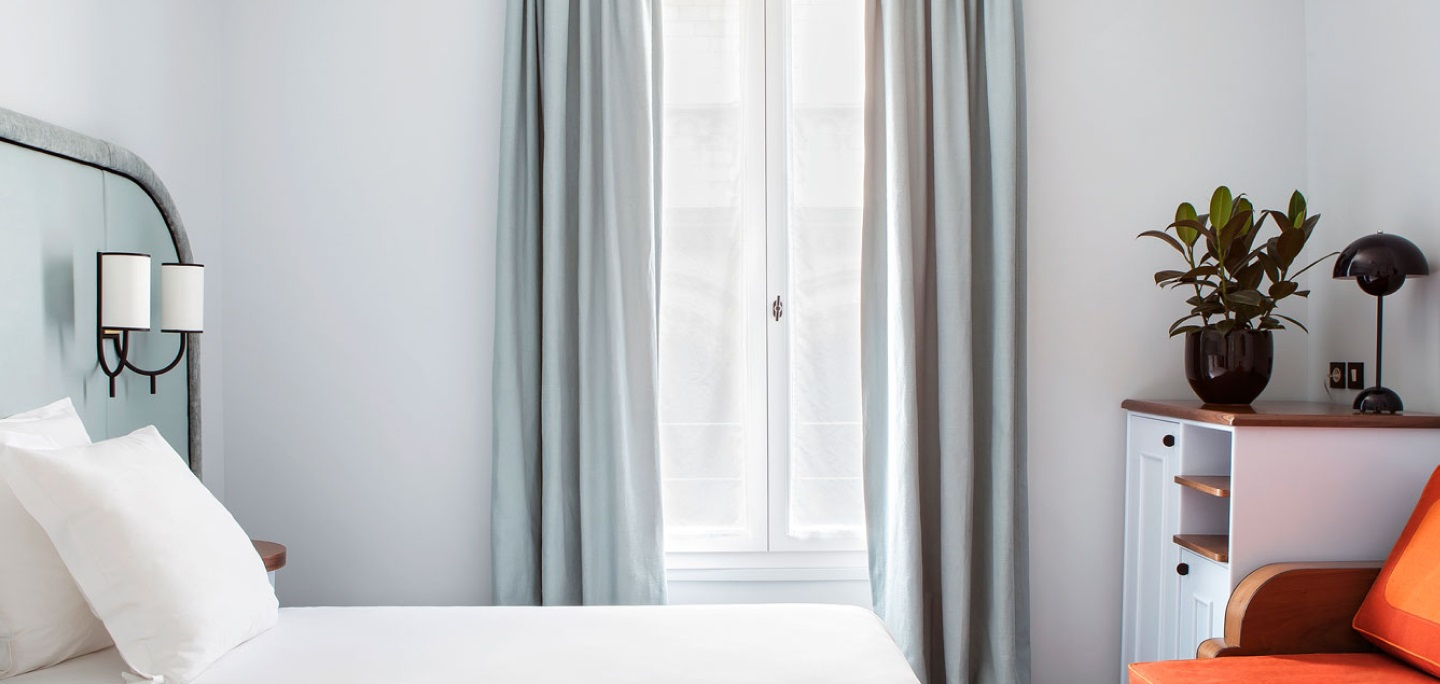
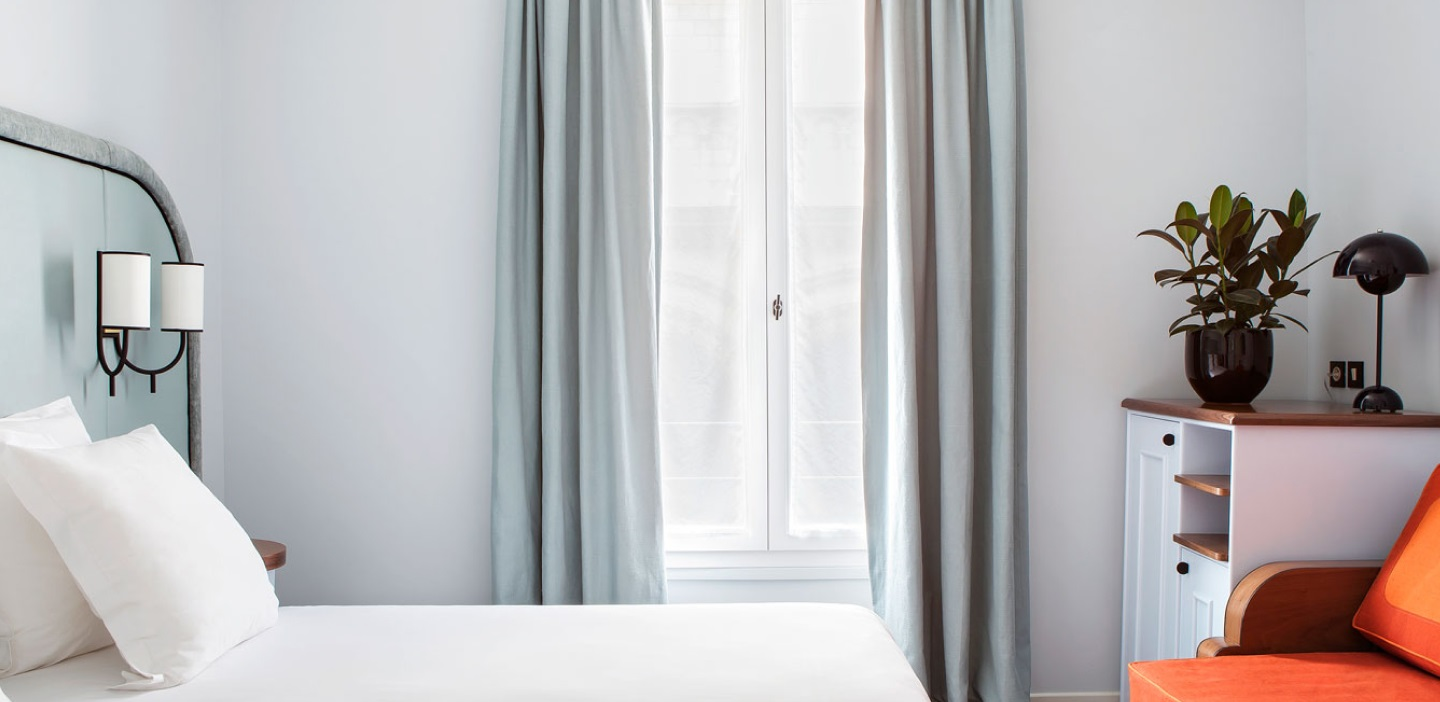
add picture registration

diff --git a/public/website-pages/registration/registration.html b/public/website-pages/registration/registration.html
@@ -1,1 +1,1 @@
-<!DOCTYPE html><!DOCTYPE html><html lang="en"><head><meta charset="UTF-8"><meta name="viewport" content="width=device-width, initial-scale=1.0"><meta http-equiv="X-UA-Compatible" content="ie=edge"><meta name="viewport" content="initial-scale=1.0, width=device-width"><meta name="keywords" content="Registration"><meta name="description" content="Registration"><link rel="icon" href="https://vodkamishka.github.io/hotel-webpack-pug-scss/public/favicon.ico"><script src="https://ajax.googleapis.com/ajax/libs/jquery/3.4.1/jquery.min.js"></script><title>Registration</title><link rel="stylesheet" href="https://fonts.googleapis.com/css?family=Montserrat|Quicksand&amp;display=swap"><link href="../../ui-kit/colors-type/colors-type.css" rel="stylesheet"><link href="../../ui-kit/form-elements/form-elements.css" rel="stylesheet"><link href="../../ui-kit/headers-footers/headers-footers.css" rel="stylesheet"><link href="../../ui-kit/cards/cards.css" rel="stylesheet"><link href="../../website-pages/landing-page/landing.css" rel="stylesheet"><link href="../../website-pages/registration/registration.css" rel="stylesheet"><link href="../../website-pages/sign-in/sign-in.css" rel="stylesheet"><link href="../../website-pages/room-details/room-details.css" rel="stylesheet"><link href="../../website-pages/search-room-filter/search-room-filter.css" rel="stylesheet"></head><body><script type="text/javascript" src="../../ui-kit/colors-type/colors-type.js"></script><script type="text/javascript" src="../../ui-kit/form-elements/form-elements.js"></script><script type="text/javascript" src="../../ui-kit/headers-footers/headers-footers.js"></script><script type="text/javascript" src="../../ui-kit/cards/cards.js"></script><script type="text/javascript" src="../../website-pages/landing-page/landing.js"></script><script type="text/javascript" src="../../website-pages/registration/registration.js"></script><script type="text/javascript" src="../../website-pages/sign-in/sign-in.js"></script><script type="text/javascript" src="../../website-pages/room-details/room-details.js"></script><script type="text/javascript" src="../../website-pages/search-room-filter/search-room-filter.js"></script></body></html><div class="registration"><header> <div class="header"><div class="header__image"><img src="https://vodkamishka.github.io/hotel-webpack-pug-scss/public/assets/img/logotypes/logo.svg" alt="logo"></div><div class="header__navbar"><div class="navbar"><ul><li> <span>О нас</span></li><li> <span>Услуги</span><div class="image"></div></li><li> <span>Вакансии</span></li><li> <span>Новости</span></li><li> <span>Соглашения</span><div class="image"></div></li></ul></div></div><div class="header__third-element"><div class="log-reg"><button class="log-btn-rus"><span>войти</span></button><button class="reg-btn-rus"><span>зарегистрироваться</span></button></div></div></div></header><div class="registration__image-wrapper"><div class="registration-accaunt"><div class="registration-accaunt__title">Регистрация аккаунта</div><div class="registration-accaunt__two-fields"><div class="input-text"><div class="label"><label class="label__left" for="forLab"></label><label class="label__right" for="forLab"></label></div><input class="text-field" type="text" placeholder="Имя"></div><div class="input-text"><div class="label"><label class="label__left" for="forLab"></label><label class="label__right" for="forLab"></label></div><input class="text-field" type="text" placeholder="Фамилия"></div></div><div class="radio-buttons__radio"><label class="radio-buttons__container">Мужчина<input type="radio" checked name="gender"><span class="checkmark"></span></label><label class="radio-buttons__container">Женщина    <input type="radio" name="gender"><span class="checkmark"></span></label></div><div class="registration-accaunt__bithday"><div class="input-text"><div class="label"><label class="label__left" for="forLab">Дата рождения</label><label class="label__right" for="forLab"></label></div><input class="text-field" type="text" placeholder="ДД.ММ.ГГГГ"></div></div><div class="registration-accaunt__two-fields"><div class="input-text"><div class="label"><label class="label__left" for="forLab">Данные для входа в сервис</label><label class="label__right" for="forLab"></label></div><input class="text-field" type="text" placeholder="Email"></div><div class="input-text"><div class="label"><label class="label__left" for="forLab"></label><label class="label__right" for="forLab"></label></div><input class="text-field" type="text" placeholder="Пароль"></div></div><div class="toggle-button__item"><input type="checkbox"><label for="offer">Получать спецпредложения</label></div><div class="registration-accaunt__button"><button class="longBtn"><span>Перейти к оплате</span></button></div><div class="registration-accaunt__toxin"><div class="registration-accaunt__text">Уже есть аккаунт на Toxin</div><button class="srtBtn white">Войти</button></div></div></div><div class="footer"><div class="inner-footer"><ul>  <img src="https://vodkamishka.github.io/hotel-webpack-pug-scss/public/assets/img/logotypes/logo.svg" alt=""><p>Бронирование номеров в лучшем отеле 2019 года по версии ассоциации &quot;Отельные взгляды&quot;</p></ul><ul><li><a href="#">Навигация</a></li><li><a href="#">О нас</a></li><li><a href="#">Новости</a></li><li><a href="#">Служба поддержки</a></li><li><a href="#">Услуги</a></li></ul><ul><li><a href="#">О нас</a></li><li><a href="#">О сервисе</a></li><li><a href="#">Наша команда</a></li><li><a href="#">Вакансии</a></li><li><a href="#">Инвесторы</a></li></ul><ul><li><a href="#">Служба поддержки</a></li><li><a href="#">Соглашения</a></li><li><a href="#">Сообщества</a></li><li><a href="#">Связь с нами</a></li></ul><ul><li><a href="#">Подписка</a></li><li><a href="#">Получайте специальные предложения и новости сервиса</a></li><div class="input-text"><div class="label"><label class="label__left" for="forLab"></label><label class="label__right" for="forLab"></label></div><input class="little-arrow" type="text"></div></ul></div></div><div class="copyright"> <div class="copyright__text">Copyright © 2018 Toxin отель. Все права зачищены.</div><div class="social"><img src="https://vodkamishka.github.io/hotel-webpack-pug-scss/public/assets/img/logotypes/twitter.svg" alt="twitter"><img src="https://vodkamishka.github.io/hotel-webpack-pug-scss/public/assets/img/logotypes/facebook.svg" alt="twitter"><img src="https://vodkamishka.github.io/hotel-webpack-pug-scss/public/assets/img/logotypes/instagram.svg" alt="twitter"></div></div></div>
+<!DOCTYPE html><!DOCTYPE html><html lang="en"><head><meta charset="UTF-8"><meta name="viewport" content="width=device-width, initial-scale=1.0"><meta http-equiv="X-UA-Compatible" content="ie=edge"><meta name="viewport" content="initial-scale=1.0, width=device-width"><meta name="keywords" content="Registration"><meta name="description" content="Registration"><link rel="icon" href="https://vodkamishka.github.io/hotel-webpack-pug-scss/public/favicon.ico"><script src="https://ajax.googleapis.com/ajax/libs/jquery/3.4.1/jquery.min.js"></script><title>Registration</title><link rel="stylesheet" href="https://fonts.googleapis.com/css?family=Montserrat|Quicksand&amp;display=swap"><link href="../../ui-kit/colors-type/colors-type.css" rel="stylesheet"><link href="../../ui-kit/form-elements/form-elements.css" rel="stylesheet"><link href="../../ui-kit/headers-footers/headers-footers.css" rel="stylesheet"><link href="../../ui-kit/cards/cards.css" rel="stylesheet"><link href="../../website-pages/landing-page/landing.css" rel="stylesheet"><link href="../../website-pages/registration/registration.css" rel="stylesheet"><link href="../../website-pages/sign-in/sign-in.css" rel="stylesheet"><link href="../../website-pages/room-details/room-details.css" rel="stylesheet"><link href="../../website-pages/search-room-filter/search-room-filter.css" rel="stylesheet"></head><body><script type="text/javascript" src="../../ui-kit/colors-type/colors-type.js"></script><script type="text/javascript" src="../../ui-kit/form-elements/form-elements.js"></script><script type="text/javascript" src="../../ui-kit/headers-footers/headers-footers.js"></script><script type="text/javascript" src="../../ui-kit/cards/cards.js"></script><script type="text/javascript" src="../../website-pages/landing-page/landing.js"></script><script type="text/javascript" src="../../website-pages/registration/registration.js"></script><script type="text/javascript" src="../../website-pages/sign-in/sign-in.js"></script><script type="text/javascript" src="../../website-pages/room-details/room-details.js"></script><script type="text/javascript" src="../../website-pages/search-room-filter/search-room-filter.js"></script></body></html><div class="registration"><header> <div class="header"><div class="header__image"><img src="https://vodkamishka.github.io/hotel-webpack-pug-scss/public/assets/img/logotypes/logo.svg" alt="logo"></div><div class="header__navbar"><div class="navbar"><ul><li> <span>О нас</span></li><li> <span>Услуги</span><div class="image"></div></li><li> <span>Вакансии</span></li><li> <span>Новости</span></li><li> <span>Соглашения</span><div class="image"></div></li></ul></div></div><div class="header__third-element"><div class="log-reg"><button class="log-btn-rus"><span>войти</span></button><button class="reg-btn-rus"><span>зарегистрироваться</span></button></div></div></div></header><div class="registration__image-wrapper"><div class="registration-accaunt"><div class="registration-accaunt__title">Регистрация аккаунта</div><div class="registration-accaunt__two-fields"><div class="input-text"><div class="label"><label class="label__left" for="forLab"></label><label class="label__right" for="forLab"></label></div><input class="text-field" type="text" placeholder="Имя"></div><div class="input-text"><div class="label"><label class="label__left" for="forLab"></label><label class="label__right" for="forLab"></label></div><input class="text-field" type="text" placeholder="Фамилия"></div></div><div class="radio-buttons__radio"><label class="radio-buttons__container">Мужчина<input type="radio" checked name="gender"><span class="checkmark"></span></label><label class="radio-buttons__container">Женщина    <input type="radio" name="gender"><span class="checkmark"></span></label></div><div class="registration-accaunt__bithday"><div class="input-text"><div class="label"><label class="label__left" for="forLab">Дата рождения</label><label class="label__right" for="forLab"></label></div><input class="text-field" type="text" placeholder="ДД.ММ.ГГГГ"></div></div><div class="registration-accaunt__two-fields"><div class="input-text"><div class="label"><label class="label__left" for="forLab">Данные для входа в сервис</label><label class="label__right" for="forLab"></label></div><input class="text-field" type="text" placeholder="Email"></div><div class="input-text"><div class="label"><label class="label__left" for="forLab"></label><label class="label__right" for="forLab"></label></div><input class="text-field" type="text" placeholder="Пароль"></div></div><div class="toggle-button__item"><input type="checkbox"><label for="offer">Получать спецпредложения</label></div><div class="registration-accaunt__button"><button class="longBtn"><span>Перейти к оплате</span></button></div><div class="registration-accaunt__toxin"><div class="registration-accaunt__text">Уже есть аккаунт на Toxin</div><button class="srtBtn white">Войти</button></div></div></div><div class="footer"><div class="inner-footer"><ul>  <img src="https://vodkamishka.github.io/hotel-webpack-pug-scss/public/assets/img/logotypes/logo.svg" alt=""><p>Бронирование номеров в лучшем отеле 2019 года по версии ассоциации &quot;Отельные взгляды&quot;</p></ul><ul><li><a href="#">Навигация</a></li><li><a href="#">О нас</a></li><li><a href="#">Новости</a></li><li><a href="#">Служба поддержки</a></li><li><a href="#">Услуги</a></li></ul><ul><li><a href="#">О нас</a></li><li><a href="#">О сервисе</a></li><li><a href="#">Наша команда</a></li><li><a href="#">Вакансии</a></li><li><a href="#">Инвесторы</a></li></ul><ul><li><a href="#">Служба поддержки</a></li><li><a href="#">Соглашения</a></li><li><a href="#">Сообщества</a></li><li><a href="#">Связь с нами</a></li></ul><ul><li><a href="#">Подписка</a></li><li><a href="#">Получайте специальные предложения и новости сервиса</a></li><div class="input-text"><div class="label"><label class="label__left" for="forLab"></label><label class="label__right" for="forLab"></label></div><input class="little-arrow" type="text" placeholder="Email"></div></ul></div></div><div class="copyright"> <div class="copyright__text">Copyright © 2018 Toxin отель. Все права зачищены.</div><div class="social"><img src="https://vodkamishka.github.io/hotel-webpack-pug-scss/public/assets/img/logotypes/twitter.svg" alt="twitter"><img src="https://vodkamishka.github.io/hotel-webpack-pug-scss/public/assets/img/logotypes/facebook.svg" alt="twitter"><img src="https://vodkamishka.github.io/hotel-webpack-pug-scss/public/assets/img/logotypes/instagram.svg" alt="twitter"></div></div></div>

diff --git a/public/index.html b/public/index.html
@@ -1,1 +1,1 @@
-<!DOCTYPE html><!DOCTYPE html><html lang="en"><head><meta charset="UTF-8"><meta name="viewport" content="width=device-width, initial-scale=1.0"><meta http-equiv="X-UA-Compatible" content="ie=edge"><meta name="viewport" content="initial-scale=1.0, width=device-width"><meta name="keywords" content="Sign in"><meta name="description" content="Sign in"><link rel="icon" href="https://vodkamishka.github.io/hotel-webpack-pug-scss/public/favicon.ico"><script src="https://ajax.googleapis.com/ajax/libs/jquery/3.4.1/jquery.min.js"></script><title>Sign in</title><link rel="stylesheet" href="https://fonts.googleapis.com/css?family=Montserrat|Quicksand&amp;display=swap"><link href="ui-kit/colors-type/colors-type.css" rel="stylesheet"><link href="ui-kit/form-elements/form-elements.css" rel="stylesheet"><link href="ui-kit/headers-footers/headers-footers.css" rel="stylesheet"><link href="ui-kit/cards/cards.css" rel="stylesheet"><link href="website-pages/landing-page/landing.css" rel="stylesheet"><link href="website-pages/registration/registration.css" rel="stylesheet"><link href="website-pages/sign-in/sign-in.css" rel="stylesheet"><link href="website-pages/room-details/room-details.css" rel="stylesheet"><link href="website-pages/search-room-filter/search-room-filter.css" rel="stylesheet"></head><body><script type="text/javascript" src="ui-kit/colors-type/colors-type.js"></script><script type="text/javascript" src="ui-kit/form-elements/form-elements.js"></script><script type="text/javascript" src="ui-kit/headers-footers/headers-footers.js"></script><script type="text/javascript" src="ui-kit/cards/cards.js"></script><script type="text/javascript" src="website-pages/landing-page/landing.js"></script><script type="text/javascript" src="website-pages/registration/registration.js"></script><script type="text/javascript" src="website-pages/sign-in/sign-in.js"></script><script type="text/javascript" src="website-pages/room-details/room-details.js"></script><script type="text/javascript" src="website-pages/search-room-filter/search-room-filter.js"></script></body></html><div class="sign-in"><header> <div class="header"><div class="header__image"><img src="https://vodkamishka.github.io/hotel-webpack-pug-scss/public/assets/img/logotypes/logo.svg" alt="logo"></div><div class="header__navbar"><div class="navbar"><ul><li> <span>О нас</span></li><li> <span>Услуги</span><div class="image"></div></li><li> <span>Вакансии</span></li><li> <span>Новости</span></li><li> <span>Соглашения</span><div class="image"></div></li></ul></div></div><div class="header__third-element"><div class="log-reg"><button class="log-btn-rus"><span>войти</span></button><button class="reg-btn-rus"><span>зарегистрироваться</span></button></div></div></div></header><div class="sign-in__image-wrapper"><div class="login"><div class="login__title">Войти</div><div class="login__fields"><div class="input-text"><input class="text-field" type="text" placeholder="Email"></div><div class="input-text"><input class="text-field" type="text" placeholder="Пароль"></div></div><div class="login__button"><button class="longBtn"><span>Войти</span></button></div><div class="login__toxin"><div class="login__text">Нет аккаунта на Toxin?</div><button class="srtBtn white">Создать</button></div></div></div><div class="footer"><div class="inner-footer"><ul>  <img src="https://vodkamishka.github.io/hotel-webpack-pug-scss/public/assets/img/logotypes/logo.svg" alt=""><p>Бронирование номеров в лучшем отеле 2019 года по версии ассоциации &quot;Отельные взгляды&quot;</p></ul><ul><li><a href="#">Навигация</a></li><li><a href="#">О нас</a></li><li><a href="#">Новости</a></li><li><a href="#">Служба поддержки</a></li><li><a href="#">Услуги</a></li></ul><ul><li><a href="#">О нас</a></li><li><a href="#">О сервисе</a></li><li><a href="#">Наша команда</a></li><li><a href="#">Вакансии</a></li><li><a href="#">Инвесторы</a></li></ul><ul><li><a href="#">Служба поддержки</a></li><li><a href="#">Соглашения</a></li><li><a href="#">Сообщества</a></li><li><a href="#">Связь с нами</a></li></ul><ul><li><a href="#">Подписка</a></li><li><a href="#">Получайте специальные предложения и новости сервиса</a></li><div class="input-text"><div class="label"><label class="label__left" for="forLab"></label><label class="label__right" for="forLab"></label></div><input class="little-arrow" type="text" placeholder="Email"></div></ul></div></div><div class="copyright"> <div class="copyright__text">Copyright © 2018 Toxin отель. Все права зачищены.</div><div class="social"><img src="https://vodkamishka.github.io/hotel-webpack-pug-scss/public/assets/img/logotypes/twitter.svg" alt="twitter"><img src="https://vodkamishka.github.io/hotel-webpack-pug-scss/public/assets/img/logotypes/facebook.svg" alt="twitter"><img src="https://vodkamishka.github.io/hotel-webpack-pug-scss/public/assets/img/logotypes/instagram.svg" alt="twitter"></div></div></div>
+<!DOCTYPE html><!DOCTYPE html><html lang="en"><head><meta charset="UTF-8"><meta name="viewport" content="width=device-width, initial-scale=1.0"><meta http-equiv="X-UA-Compatible" content="ie=edge"><meta name="viewport" content="initial-scale=1.0, width=device-width"><meta name="keywords" content="Registration"><meta name="description" content="Registration"><link rel="icon" href="https://vodkamishka.github.io/hotel-webpack-pug-scss/public/favicon.ico"><script src="https://ajax.googleapis.com/ajax/libs/jquery/3.4.1/jquery.min.js"></script><title>Registration</title><link rel="stylesheet" href="https://fonts.googleapis.com/css?family=Montserrat|Quicksand&amp;display=swap"><link href="ui-kit/colors-type/colors-type.css" rel="stylesheet"><link href="ui-kit/form-elements/form-elements.css" rel="stylesheet"><link href="ui-kit/headers-footers/headers-footers.css" rel="stylesheet"><link href="ui-kit/cards/cards.css" rel="stylesheet"><link href="website-pages/landing-page/landing.css" rel="stylesheet"><link href="website-pages/registration/registration.css" rel="stylesheet"><link href="website-pages/sign-in/sign-in.css" rel="stylesheet"><link href="website-pages/room-details/room-details.css" rel="stylesheet"><link href="website-pages/search-room-filter/search-room-filter.css" rel="stylesheet"></head><body><script type="text/javascript" src="ui-kit/colors-type/colors-type.js"></script><script type="text/javascript" src="ui-kit/form-elements/form-elements.js"></script><script type="text/javascript" src="ui-kit/headers-footers/headers-footers.js"></script><script type="text/javascript" src="ui-kit/cards/cards.js"></script><script type="text/javascript" src="website-pages/landing-page/landing.js"></script><script type="text/javascript" src="website-pages/registration/registration.js"></script><script type="text/javascript" src="website-pages/sign-in/sign-in.js"></script><script type="text/javascript" src="website-pages/room-details/room-details.js"></script><script type="text/javascript" src="website-pages/search-room-filter/search-room-filter.js"></script></body></html><div class="registration"><header> <div class="header"><div class="header__image"><img src="https://vodkamishka.github.io/hotel-webpack-pug-scss/public/assets/img/logotypes/logo.svg" alt="logo"></div><div class="header__navbar"><div class="navbar"><ul><li> <span>О нас</span></li><li> <span>Услуги</span><div class="image"></div></li><li> <span>Вакансии</span></li><li> <span>Новости</span></li><li> <span>Соглашения</span><div class="image"></div></li></ul></div></div><div class="header__third-element"><div class="log-reg"><button class="log-btn-rus"><span>войти</span></button><button class="reg-btn-rus"><span>зарегистрироваться</span></button></div></div></div></header><div class="registration__image-wrapper"><div class="registration-accaunt"><div class="registration-accaunt__title">Регистрация аккаунта</div><div class="registration-accaunt__two-fields"><div class="input-text"><div class="label"><label class="label__left" for="forLab"></label><label class="label__right" for="forLab"></label></div><input class="text-field" type="text" placeholder="Имя"></div><div class="input-text"><div class="label"><label class="label__left" for="forLab"></label><label class="label__right" for="forLab"></label></div><input class="text-field" type="text" placeholder="Фамилия"></div></div><div class="radio-buttons__radio"><label class="radio-buttons__container">Мужчина<input type="radio" checked name="gender"><span class="checkmark"></span></label><label class="radio-buttons__container">Женщина    <input type="radio" name="gender"><span class="checkmark"></span></label></div><div class="registration-accaunt__bithday"><div class="input-text"><div class="label"><label class="label__left" for="forLab">Дата рождения</label><label class="label__right" for="forLab"></label></div><input class="text-field" type="text" placeholder="ДД.ММ.ГГГГ"></div></div><div class="registration-accaunt__two-fields"><div class="input-text"><div class="label"><label class="label__left" for="forLab">Данные для входа в сервис</label><label class="label__right" for="forLab"></label></div><input class="text-field" type="text" placeholder="Email"></div><div class="input-text"><div class="label"><label class="label__left" for="forLab"></label><label class="label__right" for="forLab"></label></div><input class="text-field" type="text" placeholder="Пароль"></div></div><div class="toggle-button__item"><input type="checkbox"><label for="offer">Получать спецпредложения</label></div><div class="registration-accaunt__button"><button class="longBtn"><span>Перейти к оплате</span></button></div><div class="registration-accaunt__toxin"><div class="registration-accaunt__text">Уже есть аккаунт на Toxin</div><button class="srtBtn white">Войти</button></div></div></div><div class="footer"><div class="inner-footer"><ul>  <img src="https://vodkamishka.github.io/hotel-webpack-pug-scss/public/assets/img/logotypes/logo.svg" alt=""><p>Бронирование номеров в лучшем отеле 2019 года по версии ассоциации &quot;Отельные взгляды&quot;</p></ul><ul><li><a href="#">Навигация</a></li><li><a href="#">О нас</a></li><li><a href="#">Новости</a></li><li><a href="#">Служба поддержки</a></li><li><a href="#">Услуги</a></li></ul><ul><li><a href="#">О нас</a></li><li><a href="#">О сервисе</a></li><li><a href="#">Наша команда</a></li><li><a href="#">Вакансии</a></li><li><a href="#">Инвесторы</a></li></ul><ul><li><a href="#">Служба поддержки</a></li><li><a href="#">Соглашения</a></li><li><a href="#">Сообщества</a></li><li><a href="#">Связь с нами</a></li></ul><ul><li><a href="#">Подписка</a></li><li><a href="#">Получайте специальные предложения и новости сервиса</a></li><div class="input-text"><div class="label"><label class="label__left" for="forLab"></label><label class="label__right" for="forLab"></label></div><input class="little-arrow" type="text" placeholder="Email"></div></ul></div></div><div class="copyright"> <div class="copyright__text">Copyright © 2018 Toxin отель. Все права зачищены.</div><div class="social"><img src="https://vodkamishka.github.io/hotel-webpack-pug-scss/public/assets/img/logotypes/twitter.svg" alt="twitter"><img src="https://vodkamishka.github.io/hotel-webpack-pug-scss/public/assets/img/logotypes/facebook.svg" alt="twitter"><img src="https://vodkamishka.github.io/hotel-webpack-pug-scss/public/assets/img/logotypes/instagram.svg" alt="twitter"></div></div></div>

diff --git a/public/website-pages/sign-in/sign-in.css b/public/website-pages/sign-in/sign-in.css
@@ -1,4 +1,4 @@
-@font-face{font-family:Montserrat;src:url(https://vodkamishka.github.io/hotel-webpack-pug-scss/src/assets/fonts/montserrat/montserrat.ttf),url(https://vodkamishka.github.io/hotel-webpack-pug-scss/src/assets/fonts/montserrat/montserrat.woff),url(https://vodkamishka.github.io/hotel-webpack-pug-scss/src/assets/fonts/montserrat/montserrat.svg)}@font-face{font-family:Quicksand;src:url(https://vodkamishka.github.io/hotel-webpack-pug-scss/src/assets/fonts/quicksand/quicksand.woff),url(https://vodkamishka.github.io/hotel-webpack-pug-scss/src/assets/fonts/quicksand/quicksand.ttf),url(https://vodkamishka.github.io/hotel-webpack-pug-scss/src/assets/fonts/quicksand/quicksand.svg)}.sign-in{height:1211px}.sign-in__image-wrapper{height:684px;background:url(https://vodkamishka.github.io/hotel-webpack-pug-scss/public/assets/img/rooms/registration.jpg);display:flex;justify-content:center;align-items:center;background-size:cover}
+@font-face{font-family:Montserrat;src:url(https://vodkamishka.github.io/hotel-webpack-pug-scss/src/assets/fonts/montserrat/montserrat.ttf),url(https://vodkamishka.github.io/hotel-webpack-pug-scss/src/assets/fonts/montserrat/montserrat.woff),url(https://vodkamishka.github.io/hotel-webpack-pug-scss/src/assets/fonts/montserrat/montserrat.svg)}@font-face{font-family:Quicksand;src:url(https://vodkamishka.github.io/hotel-webpack-pug-scss/src/assets/fonts/quicksand/quicksand.woff),url(https://vodkamishka.github.io/hotel-webpack-pug-scss/src/assets/fonts/quicksand/quicksand.ttf),url(https://vodkamishka.github.io/hotel-webpack-pug-scss/src/assets/fonts/quicksand/quicksand.svg)}.sign-in{height:1211px}.sign-in__image-wrapper{height:684px;background:url(https://vodkamishka.github.io/hotel-webpack-pug-scss/public/assets/img/rooms/sign-in.jpg);display:flex;justify-content:center;align-items:center;background-size:cover}
 @font-face{font-family:Montserrat;src:url(https://vodkamishka.github.io/hotel-webpack-pug-scss/src/assets/fonts/montserrat/montserrat.ttf),url(https://vodkamishka.github.io/hotel-webpack-pug-scss/src/assets/fonts/montserrat/montserrat.woff),url(https://vodkamishka.github.io/hotel-webpack-pug-scss/src/assets/fonts/montserrat/montserrat.svg)}@font-face{font-family:Quicksand;src:url(https://vodkamishka.github.io/hotel-webpack-pug-scss/src/assets/fonts/quicksand/quicksand.woff),url(https://vodkamishka.github.io/hotel-webpack-pug-scss/src/assets/fonts/quicksand/quicksand.ttf),url(https://vodkamishka.github.io/hotel-webpack-pug-scss/src/assets/fonts/quicksand/quicksand.svg)}body{position:relative;max-width:1440px;margin:0 auto;padding:0}body,body *,body ul{font-family:Montserrat}body ul{padding:0;margin:0}
 @font-face{font-family:Montserrat;src:url(https://vodkamishka.github.io/hotel-webpack-pug-scss/src/assets/fonts/montserrat/montserrat.ttf),url(https://vodkamishka.github.io/hotel-webpack-pug-scss/src/assets/fonts/montserrat/montserrat.woff),url(https://vodkamishka.github.io/hotel-webpack-pug-scss/src/assets/fonts/montserrat/montserrat.svg)}@font-face{font-family:Quicksand;src:url(https://vodkamishka.github.io/hotel-webpack-pug-scss/src/assets/fonts/quicksand/quicksand.woff),url(https://vodkamishka.github.io/hotel-webpack-pug-scss/src/assets/fonts/quicksand/quicksand.ttf),url(https://vodkamishka.github.io/hotel-webpack-pug-scss/src/assets/fonts/quicksand/quicksand.svg)}.login{height:358px;background:#fff;box-shadow:0 0 25px rgba(0,0,0,.2);border-radius:4px;border:1px solid rgba(0,0,0,.12);padding:40px 30px 30px;box-sizing:border-box}.login__title{font-family:Montserrat;font-weight:700;font-size:24px;line-height:30px;color:#1f2041;margin-bottom:20px}.login__fields{margin:20px 0}.login__fields .input-text:first-child input{margin-bottom:10px}.login__button{margin-bottom:30px}.login__toxin{display:flex;align-items:center;justify-content:space-between}.login__text{font-size:14px;line-height:18px;color:#000;font-family:Montserrat}
 @font-face{font-family:Montserrat;src:url(https://vodkamishka.github.io/hotel-webpack-pug-scss/src/assets/fonts/montserrat/montserrat.ttf),url(https://vodkamishka.github.io/hotel-webpack-pug-scss/src/assets/fonts/montserrat/montserrat.woff),url(https://vodkamishka.github.io/hotel-webpack-pug-scss/src/assets/fonts/montserrat/montserrat.svg)}@font-face{font-family:Quicksand;src:url(https://vodkamishka.github.io/hotel-webpack-pug-scss/src/assets/fonts/quicksand/quicksand.woff),url(https://vodkamishka.github.io/hotel-webpack-pug-scss/src/assets/fonts/quicksand/quicksand.ttf),url(https://vodkamishka.github.io/hotel-webpack-pug-scss/src/assets/fonts/quicksand/quicksand.svg)}.label{font-family:Montserrat;font-weight:700;font-size:12px;line-height:15px;text-transform:uppercase;color:#1f2041;width:320px;display:flex;justify-content:space-between}.label .label__right{color:rgba(31,32,65,.5);font-weight:400}.label.little{width:266px}.label.small{width:150px}.label__left{margin-bottom:5px}.label__right{margin-bottom:5.44px}

diff --git a/public/website-pages/registration/registration.css b/public/website-pages/registration/registration.css
@@ -1,4 +1,4 @@
-.registration{height:1211px}.registration__image-wrapper{padding-top:30px;height:702px;background:url(https://vodkamishka.github.io/hotel-webpack-pug-scss/public/assets/img/rooms/registration.jpg) 0 100%;display:flex;justify-content:center}
+@font-face{font-family:Montserrat;src:url(https://vodkamishka.github.io/hotel-webpack-pug-scss/src/assets/fonts/montserrat/montserrat.ttf),url(https://vodkamishka.github.io/hotel-webpack-pug-scss/src/assets/fonts/montserrat/montserrat.woff),url(https://vodkamishka.github.io/hotel-webpack-pug-scss/src/assets/fonts/montserrat/montserrat.svg)}@font-face{font-family:Quicksand;src:url(https://vodkamishka.github.io/hotel-webpack-pug-scss/src/assets/fonts/quicksand/quicksand.woff),url(https://vodkamishka.github.io/hotel-webpack-pug-scss/src/assets/fonts/quicksand/quicksand.ttf),url(https://vodkamishka.github.io/hotel-webpack-pug-scss/src/assets/fonts/quicksand/quicksand.svg)}.registration{height:1211px}.registration__image-wrapper{height:702px;background:url(https://vodkamishka.github.io/hotel-webpack-pug-scss/public/assets/img/rooms/registration.jpg);background-size:cover}
 @font-face{font-family:Montserrat;src:url(https://vodkamishka.github.io/hotel-webpack-pug-scss/src/assets/fonts/montserrat/montserrat.ttf),url(https://vodkamishka.github.io/hotel-webpack-pug-scss/src/assets/fonts/montserrat/montserrat.woff),url(https://vodkamishka.github.io/hotel-webpack-pug-scss/src/assets/fonts/montserrat/montserrat.svg)}@font-face{font-family:Quicksand;src:url(https://vodkamishka.github.io/hotel-webpack-pug-scss/src/assets/fonts/quicksand/quicksand.woff),url(https://vodkamishka.github.io/hotel-webpack-pug-scss/src/assets/fonts/quicksand/quicksand.ttf),url(https://vodkamishka.github.io/hotel-webpack-pug-scss/src/assets/fonts/quicksand/quicksand.svg)}body{position:relative;max-width:1440px;margin:0 auto;padding:0}body,body *,body ul{font-family:Montserrat}body ul{padding:0;margin:0}
 @font-face{font-family:Montserrat;src:url(https://vodkamishka.github.io/hotel-webpack-pug-scss/src/assets/fonts/montserrat/montserrat.ttf),url(https://vodkamishka.github.io/hotel-webpack-pug-scss/src/assets/fonts/montserrat/montserrat.woff),url(https://vodkamishka.github.io/hotel-webpack-pug-scss/src/assets/fonts/montserrat/montserrat.svg)}@font-face{font-family:Quicksand;src:url(https://vodkamishka.github.io/hotel-webpack-pug-scss/src/assets/fonts/quicksand/quicksand.woff),url(https://vodkamishka.github.io/hotel-webpack-pug-scss/src/assets/fonts/quicksand/quicksand.ttf),url(https://vodkamishka.github.io/hotel-webpack-pug-scss/src/assets/fonts/quicksand/quicksand.svg)}.extends-header,.header,.header-eng,.header-eng2{min-height:70px;background:#fff;box-shadow:0 10px 20px rgba(31,32,65,.05);padding:0 9.72%;display:flex;align-items:center;justify-content:space-between}.extends-header__image{height:40px}.extends-header__third-element button:last-child{margin-left:20px}.header__navbar{margin-left:24.6%}.header-eng__navbar{margin-left:25.63%}.header-eng__navbar .navbar ul li{margin-right:30px}.header-eng__navbar .navbar ul li:first-child{font-weight:700;color:rgba(31,32,65,.75)}.header-eng__navbar .navbar ul li li:last-child{margin-right:0}.header-eng2__navbar{margin-left:30.11%;margin-right:61px}.header-eng2__navbar .navbar{width:auto}.header-eng2__navbar .navbar ul li{margin-right:30px}.header-eng2__navbar .navbar ul li:first-child{font-weight:700;color:rgba(31,32,65,.75)}.header-eng2__navbar .navbar ul li:last-child{margin-right:0}.header-eng2 span{font-size:14px;line-height:17px;color:rgba(31,32,65,.5)}@media (max-width:1250px){.header{padding:0 3%}.header__navbar{margin-left:2%}.header__navbar .navbar ul li{font-size:13px}}@media (max-width:900px){.header{flex-wrap:wrap;height:140px}.header__navbar .navbar ul li{font-size:15px}}@media (max-width:500px){.header{flex-wrap:nowrap;height:auto}.header,.header__navbar .navbar ul{flex-direction:column;align-items:flex-start;margin:10px}}
 @font-face{font-family:Montserrat;src:url(https://vodkamishka.github.io/hotel-webpack-pug-scss/src/assets/fonts/montserrat/montserrat.ttf),url(https://vodkamishka.github.io/hotel-webpack-pug-scss/src/assets/fonts/montserrat/montserrat.woff),url(https://vodkamishka.github.io/hotel-webpack-pug-scss/src/assets/fonts/montserrat/montserrat.svg)}@font-face{font-family:Quicksand;src:url(https://vodkamishka.github.io/hotel-webpack-pug-scss/src/assets/fonts/quicksand/quicksand.woff),url(https://vodkamishka.github.io/hotel-webpack-pug-scss/src/assets/fonts/quicksand/quicksand.ttf),url(https://vodkamishka.github.io/hotel-webpack-pug-scss/src/assets/fonts/quicksand/quicksand.svg)}.log-btn,.log-btn-rus{height:34px;border-radius:22px;width:79px;text-align:center;text-transform:uppercase;background:#fff;border:1px solid #8ba4f9}.log-btn-rus span,.log-btn span{color:#bc9cff;font-family:Montserrat;font-weight:700;font-size:12px;height:15px;font-style:normal}.log-btn-rus{width:87px}

diff --git a/src/website-pages/registration/registration.scss b/src/website-pages/registration/registration.scss
@@ -1,10 +1,11 @@
+@import '../../assets/utils/main';
+
 .registration {
     height: 1211px;
         &__image-wrapper {
-            padding-top: 30px;
             height: 702px;
-            background: url(https://vodkamishka.github.io/hotel-webpack-pug-scss/public/assets/img/rooms/registration.jpg) left bottom;
-            display: flex;
-            justify-content: center;
+            background: url(https://vodkamishka.github.io/hotel-webpack-pug-scss/public/assets/img/rooms/registration.jpg);
+            background-size: cover;
+            
         }
 }

diff --git a/src/website-pages/sign-in/sign-in.scss b/src/website-pages/sign-in/sign-in.scss
@@ -4,7 +4,7 @@
     height: 1211px;
         &__image-wrapper {
             height: 684px;
-            background: url(https://vodkamishka.github.io/hotel-webpack-pug-scss/public/assets/img/rooms/registration.jpg);
+            background: url(https://vodkamishka.github.io/hotel-webpack-pug-scss/public/assets/img/rooms/sign-in.jpg);
             @include flex-center;
             background-size: cover;
         }

diff --git a/webpack.config.js b/webpack.config.js
@@ -110,7 +110,7 @@ module.exports = {
            }),
         new HTMLWebpackPlugin({
             hash: false,
-            template: `./src/website-pages/sign-in/sign-in.pug`
+            template: `./src/website-pages/registration/registration.pug`
            }),
         new CopyWebpackPlugin([
             { from: './src/assets/img', to: './assets/img' },
